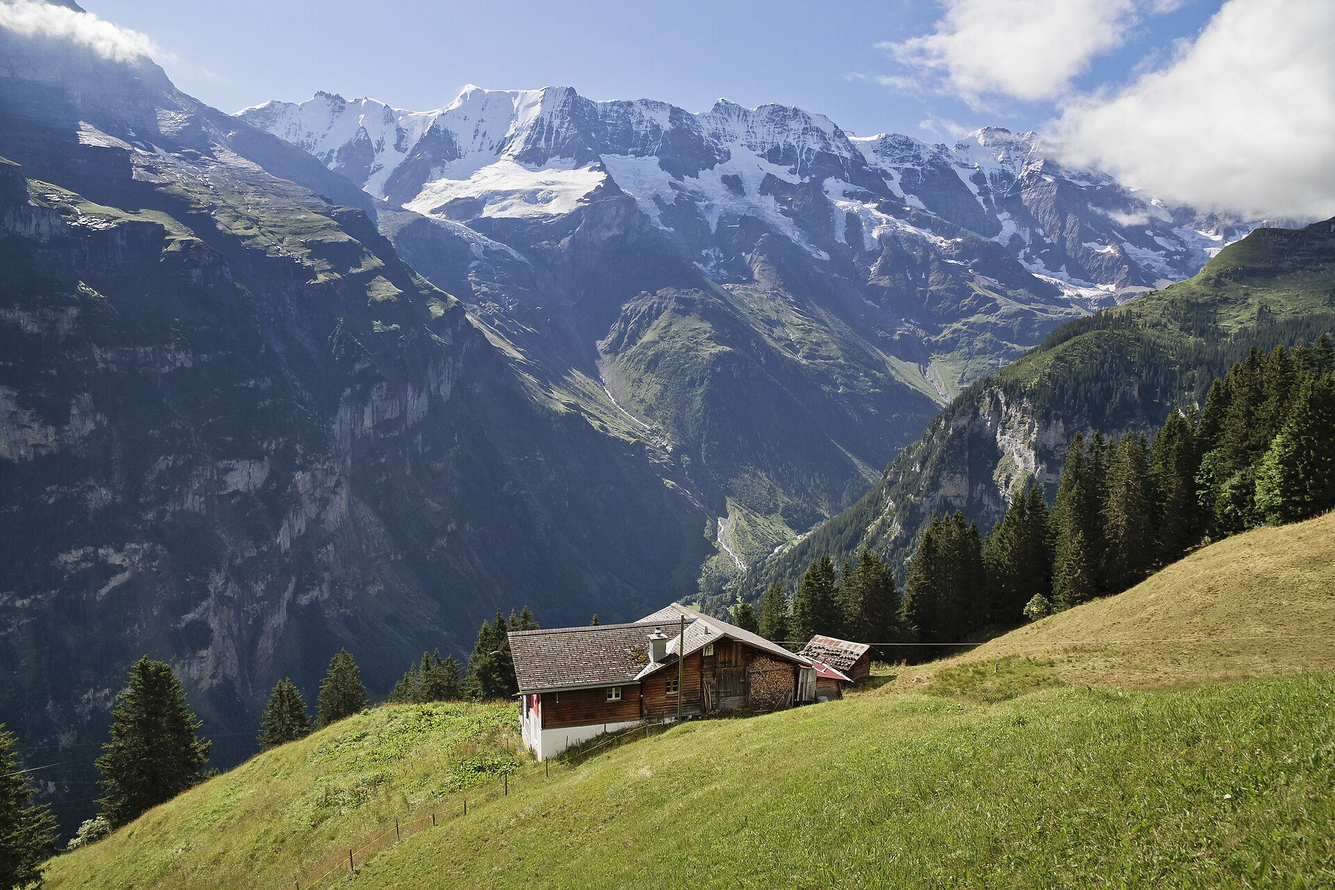
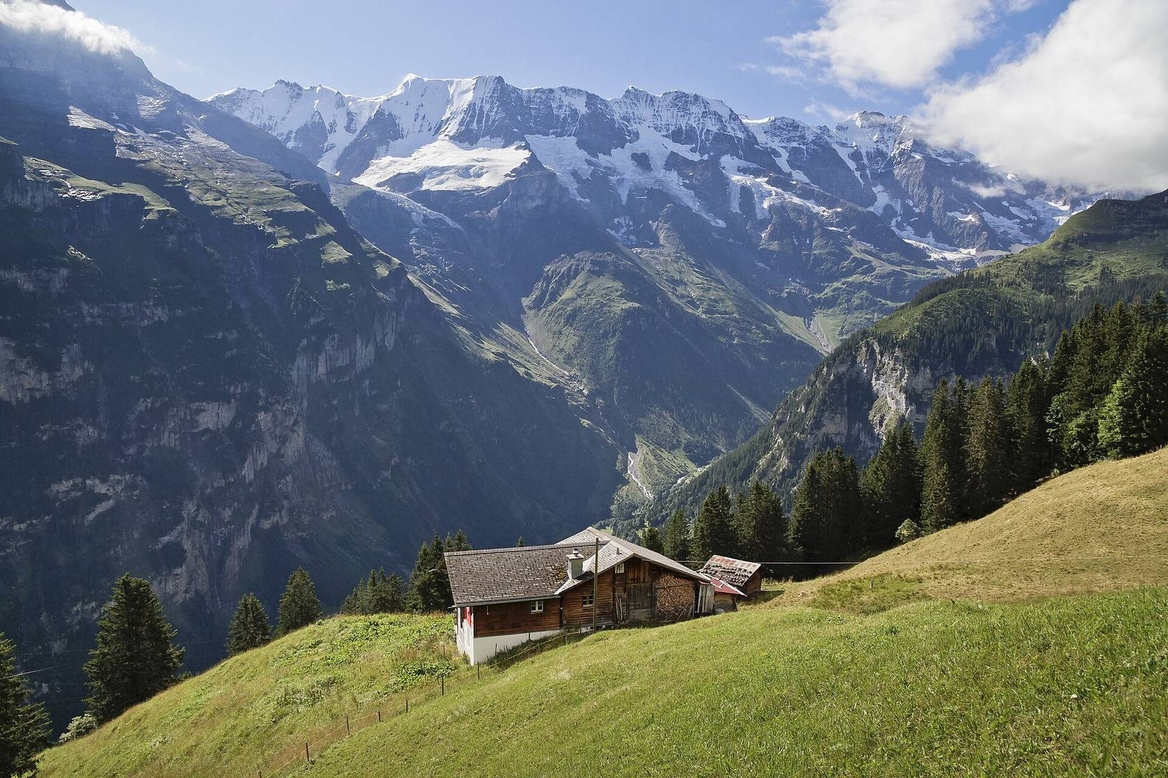
첫 화면 속도: 정적 Pretendard 대체 제거·랜딩/로고 이미지 압축(전송 3.85→2.92MB)
Claude-Session: https://claude.ai/code/session_01L4pyzRD12KWgVvkgVgtdyu

diff --git a/style.css b/style.css
@@ -151,9 +151,10 @@ html.dark :is(#stock-search .ss-spinner, #order-book .ob-spinner, #foreign-flow 
      검색창을 두 번째 줄로 내렸다(@media max-width:720px에서만 0이 아닌 값으로 바뀜) -
      그만큼 늘어난 navbar 높이를 page-wrap/sidebar-left 등 아래 오프셋 계산에 더한다. */
   --navbar-mobile-extra-height: 0px;
-  --font-title: "Pretendard Variable", "Pretendard", "Malgun Gothic", sans-serif; /* Shared title font; explicit serif exceptions live in np.np. */
-  --font-ui: "Pretendard Variable", "Pretendard", "Malgun Gothic", sans-serif;
-  --font-data: "Pretendard Variable", "Pretendard", "Malgun Gothic", sans-serif;
+  --font-title: "Pretendard Variable", "Apple SD Gothic Neo", "Malgun Gothic", sans-serif; /* Shared title font; explicit serif exceptions live in np.np. */
+  /* 2026-11-13 속도: 정적 "Pretendard"(스킨 static/pretendard.css)를 대체 글꼴에서 뺀다. 가변 서브셋에 없는 글자(예: ä) 하나로 748KB 정적 글꼴 전체를 받던 문제. */
+  --font-ui: "Pretendard Variable", "Apple SD Gothic Neo", "Malgun Gothic", sans-serif;
+  --font-data: "Pretendard Variable", "Apple SD Gothic Neo", "Malgun Gothic", sans-serif;
   --page-bg: #FEFDFA; /* 2026-10-04 최종: 페이지 바탕만 거의 흰색(254,253,250). 카드·상자는 --surface/흰색 계열 */
   --surface: #fff;
   --text-main: #4b5563; /* 2026-10-23 본문 회색(흰 바탕 7.6:1). 굵은 글자는 --text-strong */
@@ -2463,8 +2464,8 @@ html.dark .home-hidden-widgets button:hover { background: var(--dk-hover) !impor
   }
   .nav-logo {
     --font-title: var(--font-serif);
-    --font-ui: "Pretendard Variable", "Pretendard", "Malgun Gothic", sans-serif;
-    --font-data: "Pretendard Variable", "Pretendard", "Malgun Gothic", sans-serif;
+    --font-ui: "Pretendard Variable", "Apple SD Gothic Neo", "Malgun Gothic", sans-serif;
+    --font-data: "Pretendard Variable", "Apple SD Gothic Neo", "Malgun Gothic", sans-serif;
   }
   html body .feed .briefing-shelf {
     position: relative; min-width: 0; max-width: 100%;

diff --git a/js/access-landing.js b/js/access-landing.js
@@ -16,7 +16,7 @@
 
   var CSS =
     'html.nine-landing-open,html.nine-landing-open body{overflow:hidden}' +
-    '.nl{position:fixed;inset:0;z-index:2147000000;color:#fff;font-family:var(--font-ui,Pretendard,system-ui,sans-serif);background:#0f2a4a;overflow:hidden}' +
+    '.nl{position:fixed;inset:0;z-index:2147000000;color:#fff;font-family:var(--font-ui,"Pretendard Variable",system-ui,sans-serif);background:#0f2a4a;overflow:hidden}' +
     '.nl-photo{position:absolute;inset:0;background:url(https://goodbyestarwars.github.io/tistory-ticker/img/landing-murren.jpg) center/cover no-repeat}' +
     '.nl-shade{position:absolute;inset:0;background:linear-gradient(90deg,rgba(7,20,38,.62) 0%,rgba(7,20,38,.18) 52%,rgba(7,20,38,0) 78%),linear-gradient(0deg,rgba(7,20,38,.5) 0%,rgba(7,20,38,0) 40%)}' +
     '.nl-top{position:absolute;top:0;left:0;right:0;display:flex;align-items:center;justify-content:space-between;gap:16px;padding:26px clamp(20px,6vw,96px)}' +
@@ -39,7 +39,7 @@
     '.nl-btn.ghost{background:rgba(255,255,255,.14);color:#fff;border:2px solid rgba(255,255,255,.85);backdrop-filter:blur(8px);-webkit-backdrop-filter:blur(8px)}' +
     '.nl-btn.ghost:hover{background:rgba(255,255,255,.26)}' +
     '.nl-btn:focus-visible,.nl-x:focus-visible,.nl-pv:focus-visible{outline:3px solid #ffd27a;outline-offset:2px}' +
-    '.nl-credit{position:absolute;right:clamp(12px,3vw,40px);bottom:10px;font-size:11px;color:rgba(255,255,255,.7);text-decoration:none;text-shadow:0 1px 6px rgba(0,0,0,.6)}' +
+    '.nl-credit{font-family:system-ui,"Malgun Gothic",sans-serif;position:absolute;right:clamp(12px,3vw,40px);bottom:10px;font-size:11px;color:rgba(255,255,255,.7);text-decoration:none;text-shadow:0 1px 6px rgba(0,0,0,.6)}' +
     '.nl-credit:hover{color:#fff;text-decoration:underline}' +
     '.nl-modal{position:absolute;inset:0;display:flex;align-items:center;justify-content:center;padding:20px;background:rgba(7,20,38,.62)}' +
     '.nl-modal[hidden]{display:none}' +

diff --git a/skin.html b/skin.html
@@ -81,7 +81,6 @@
        그대로 담당한다. -->
   <!-- Serif family/weights are loaded once by style.css → css/fonts.css. -->
   <!-- 본문·UI 공통 프리텐다드 -->
-  <link href="https://cdn.jsdelivr.net/gh/orioncactus/pretendard/dist/web/static/pretendard.css" rel="stylesheet" />
   <script>
     /* 오른쪽 사이드바(인기글/해시태그)는 전체글(홈, "/") 화면에서만 보이고,
        마켓 브리핑 등 카테고리·커스텀 페이지·개별 글 등 그 외 모든 화면에서는 숨긴다.

diff --git a/docs/WORK_HISTORY.md b/docs/WORK_HISTORY.md
@@ -7,6 +7,12 @@
 **2026-11-13 선물 수급 당일 확인용 샘플**
 
 - 사용자 승인으로 오늘만 실관측이 없을 때 화면 전용 샘플을 표시. 실제 현재 누적·가격과 구분하고 샘플 문구/끄기 제공. KST 날짜 제한, 실제 이력 우선, DB/API 저장 없음. 기존 공통 차트·주체/구간/누적·시간 연동 재사용. 날짜 경계/실이력 우선/원본 불변·JS 문법 검증 후 Pages 배포.
+**2026-11-13 첫 화면 속도 점검·전송량 24% 감소**
+
+- 측정(운영 https://ghlee.tistory.com/ 비로그인, PC 1440, Playwright): 111요청·3,854KB·load 6.2~6.8s. 큰 항목: 정적 `Pretendard-Regular.woff2` 748KB(원인: 랜딩 사진 출처 `Räsänen`의 ä 2글자가 가변 서브셋에 없어 스킨의 정적 pretendard.css로 대체), `landing-murren.jpg` 675KB, 로고 `falcon-logo-source.webp` 276KB(1536×1024를 34~80px로 표시), 명조 서브셋 16개 약 600KB, 티스토리 코드 하이라이트 언어팩 12개.
+- 변경: `style.css` 공통 `--font-title/ui/data` 대체 글꼴에서 정적 "Pretendard" 제거(→ Apple SD Gothic Neo/맑은 고딕). `js/access-landing.js` 출처 문구 시스템 글꼴. `img/landing-murren.jpg` 1680px·q70 프로그레시브(675→344KB), `img/falcon-logo-source.webp` 768×512(276→67KB, 배경 % 크롭 비율 동일). `skin.html` 정적 pretendard.css 링크 삭제(운영 수동 반영 대기, SKIN_HTML_PENDING 기록).
+- 검증: 같은 운영 페이지에 변경 파일만 바꿔 끼운 비교 — 3,854→2,916KB(−24%), 정적 Pretendard 다운로드 1→0, load 6.2→4.9s(1회 측정, 네트워크 변동 있음). 랜딩 화면 스크린샷 동일(로고 글자 ‘ㄱㅖ조 ㅏ’는 원래 의도된 표기).
+- 배포: master→Pages. 미완료: 스킨 링크 수동 삭제, 로그인 후 관리자 화면(API 지연)은 인증 없이 측정 불가, 티스토리 코드 하이라이트 플러그인·광고 스크립트는 사이트 코드 밖.
 
 **2026-11-13 내 카테고리 시총비례 히트맵 카테고리별 구역·활성 종목 묶음 편입**
 

diff --git a/docs/SKIN_HTML_PENDING.md b/docs/SKIN_HTML_PENDING.md
@@ -11,6 +11,10 @@
 운영 HTML의 기존 `maru-buri.css` 링크도 편집기에서 삭제해야 불필요한 구형 다운로드가 완전히 사라진다.
 전체 스킨 덮어쓰기 없이 해당 link 한 줄만 제거한다. 운영 저장·원문 확인 전까지 이 항목은 대기다.
 
+## 정적 Pretendard 링크 삭제 — 2026-11-13 (속도, 반영 대기)
+
+`<head>`의 `<link href="https://cdn.jsdelivr.net/gh/orioncactus/pretendard/dist/web/static/pretendard.css" rel="stylesheet" />` 한 줄을 삭제한다(리포 `skin.html`은 삭제 완료). 본문 글꼴은 `style.css`가 불러오는 Pretendard Variable 서브셋이며, 이 정적 CSS는 가변 서브셋에 없는 글자 하나(예: 랜딩 사진 출처 `Räsänen`의 ä)만으로 `Pretendard-Regular.woff2` 748KB 전체를 받게 만들었다. 공통 토큰과 랜딩은 이미 정적 Pretendard를 대체 글꼴에서 뺐지만, 화면별 CSS 46곳에 남은 `"Pretendard"` 대체 글꼴은 이 링크가 있는 한 같은 문제가 날 수 있다. 우회 추가 없음.
+
 ## 화면 접근 게이트 스크립트 — 2026-11-11 (선택, 반영 대기)
 
 `<head>`의 `skin-shell.js` 앞(첫 `<link rel="stylesheet">` 아래)에 `<script src="https://goodbyestarwars.github.io/tistory-ticker/js/access-gate.js"></script>`(defer 없음) 한 줄을 넣으면 보호 화면 판정이 첫 페인트 전에 시작돼 홈 카드가 잠깐 보이는 현상이 줄어든다. 없어도 `skin-shell.js`가 같은 스크립트를 동적으로 불러와 동작한다(우회가 아닌 폴백). 반영 후에도 폴백은 중복 로드하지 않는다.
